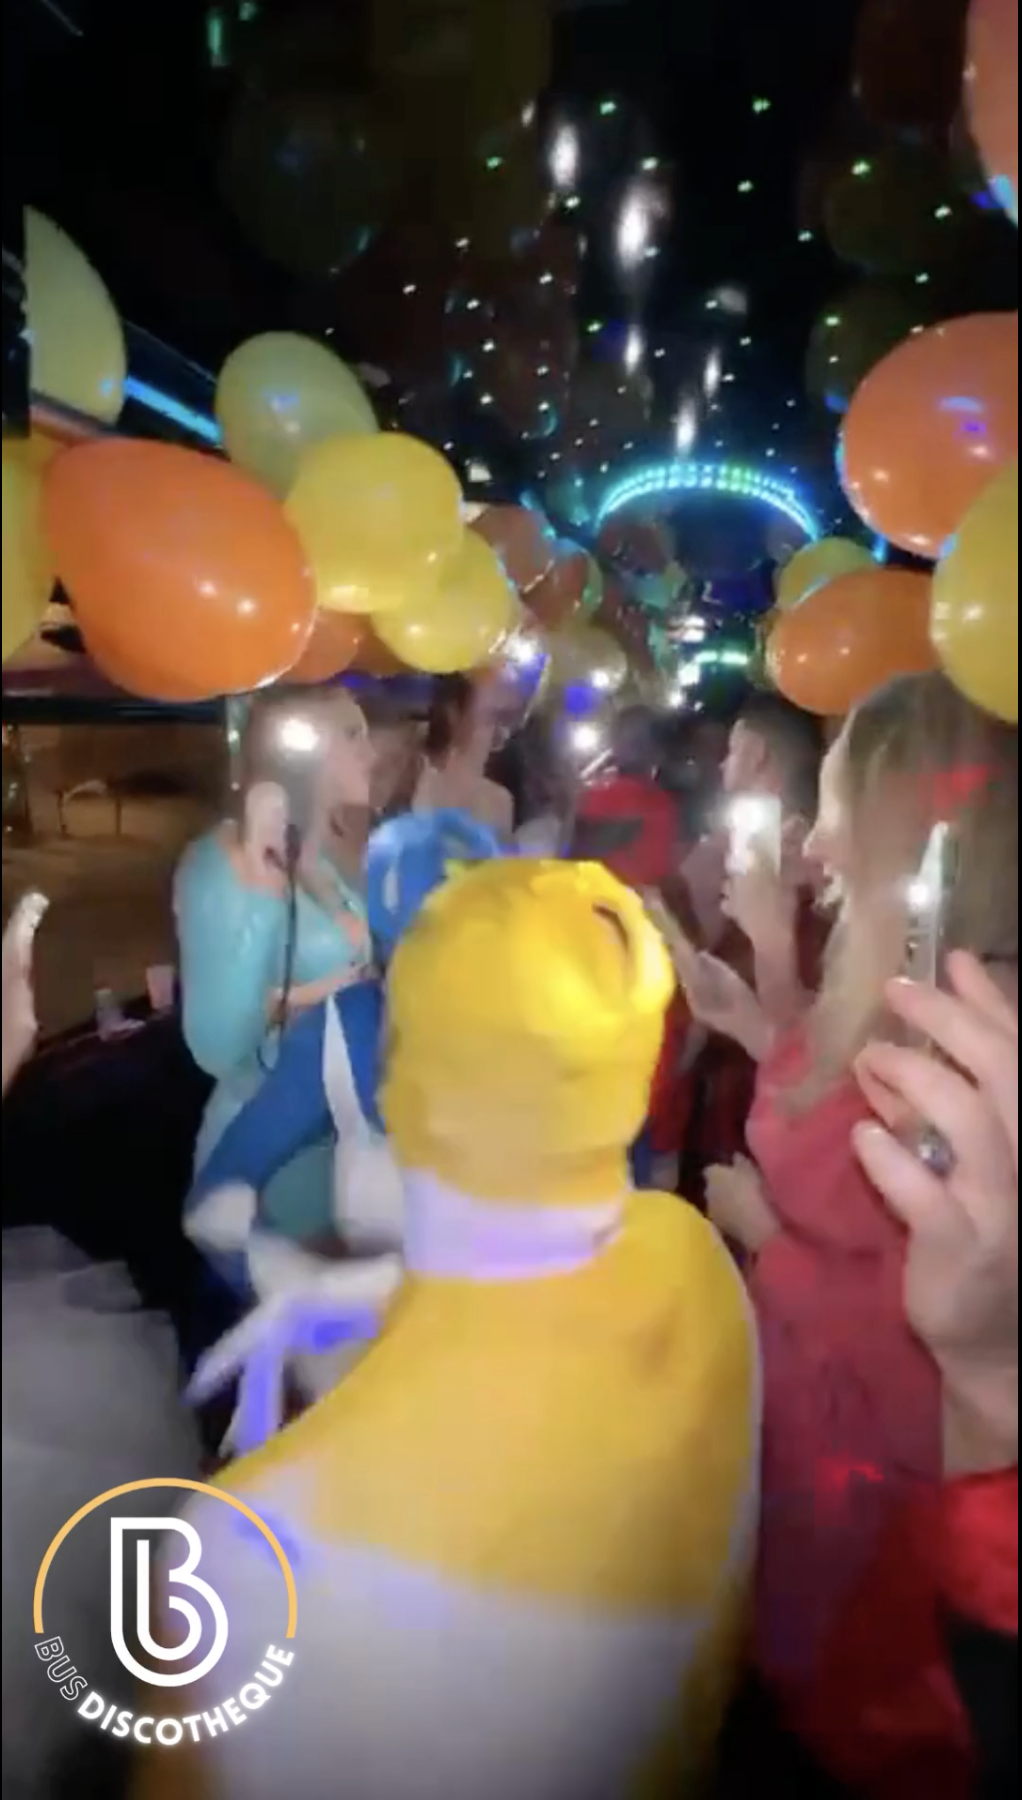
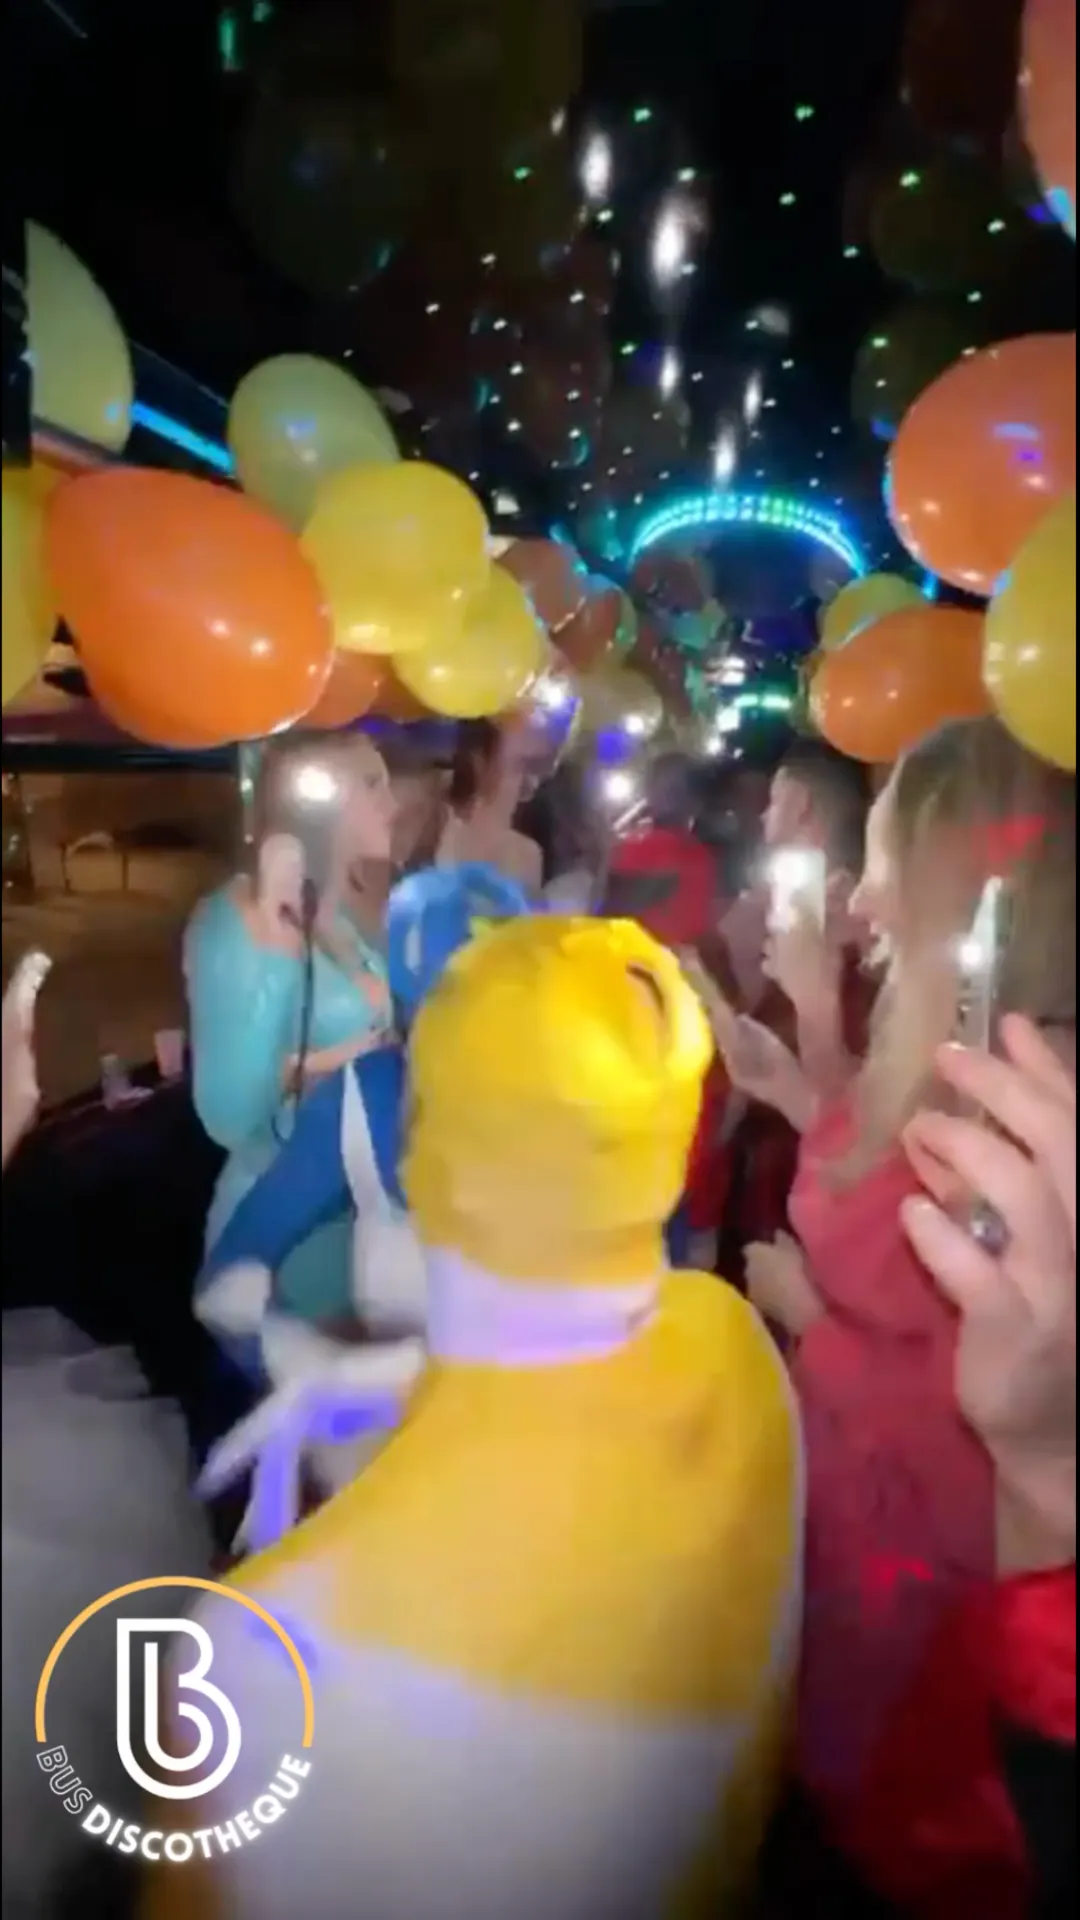
Fix image sizes + pricing page design

diff --git a/assets/scss/pages/_pricing.scss b/assets/scss/pages/_pricing.scss
@@ -61,27 +61,42 @@
         }
       }
       &#better_offer{
-        margin:80px 0;
-        h2{
-          text-align:center;
-          margin:0 0 40px;
-          padding:0 50px;
-          font-size:25px;
-          &::before,&::after{
-            background-image:url('../../images/icons/cash.webp');
+        margin:80px 0 40px;
+        display:flex;
+        flex-direction: column;
+        align-items:center;
+        .between {
+          display:flex;
+          flex-direction:row;
+          align-items:center;
+          h2 {
+            text-align: center;
+            padding: 0 50px;
+            font-size: 25px;
+            @media all and (max-width: $tablet_width) {
+              font-size: 18px;
+              padding: 0;
+            }
+            @media all and (max-width: $mobile_width) {
+              font-size: 14px;
+              padding: 0;
+            }
+          }
+
+          .icon {
+            background-image: url('../../images/icons/cash.webp');
             background-position: 50%;
             background-repeat: no-repeat;
             background-size: 100%;
-            content: "";
-            display: inline-block;
             height: 60px;
-            vertical-align: -33%;
-            width: 60px;
-            margin:0 30px;
+            max-width: 60px;
+            min-width: 60px;
+            margin: 0 30px;
           }
         }
         p{
           font-size:18px;
+          padding:0 50px;
         }
       }
       &#crypto{
